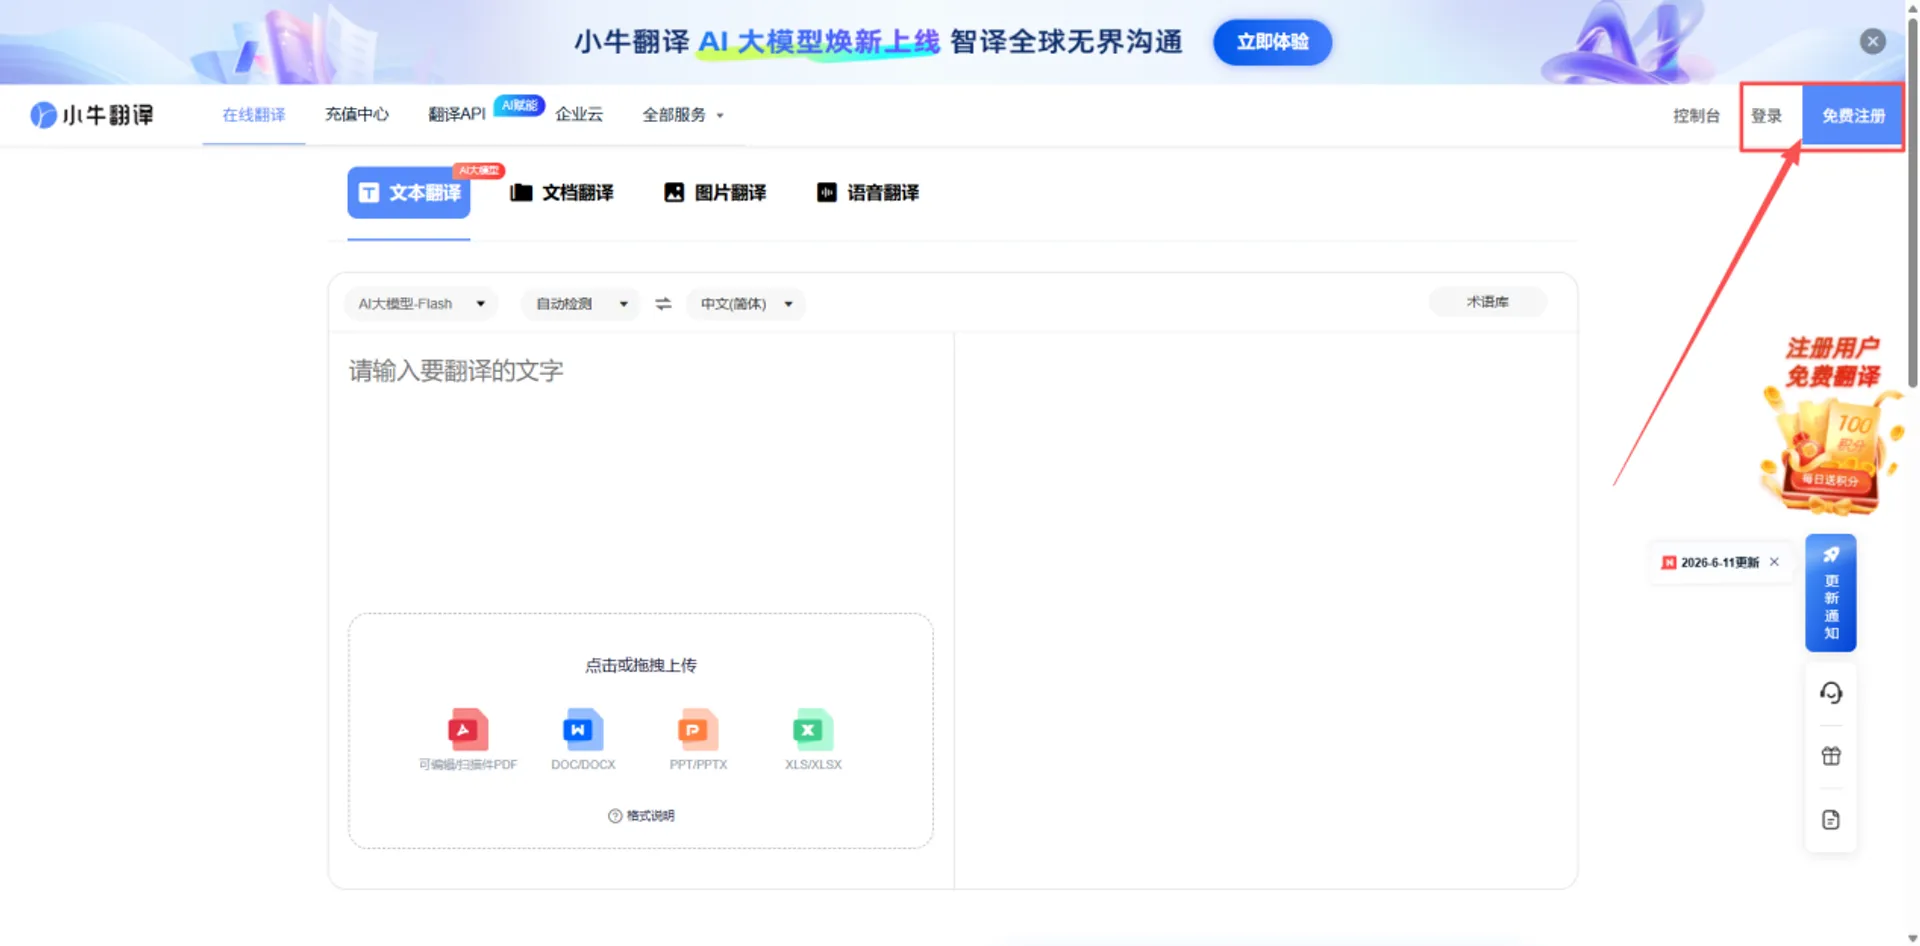
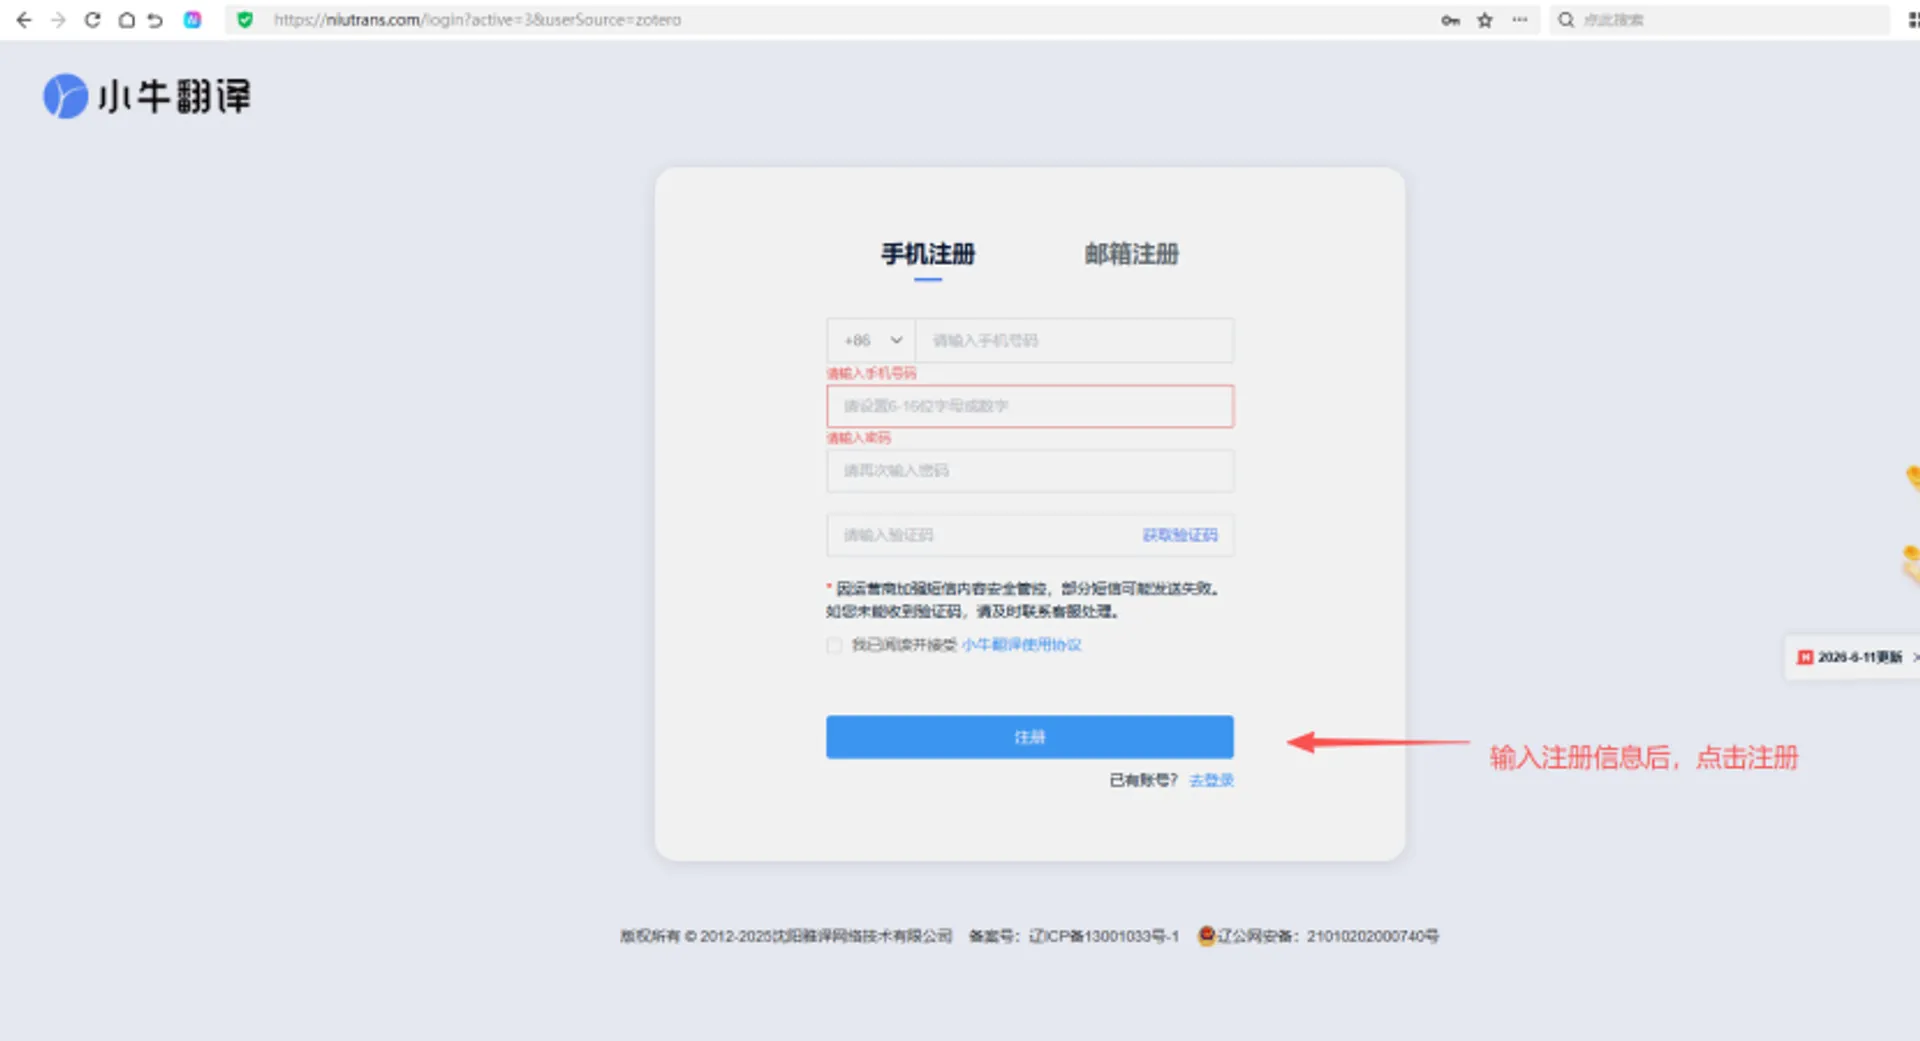
docs: 补充小牛翻译社区专属福利

diff --git a/user-guide/plugins/translate/niutrans.md b/user-guide/plugins/translate/niutrans.md
@@ -6,6 +6,10 @@
 
 新用户注册即可领取 500 积分（100 万字符）；平台每日额外发放 100 积分（20 万字符）免费额度。
 
+小牛翻译专为 Zotero 中文社区用户提供专属福利：通过社区专属链接注册，可额外再领取 500 积分。
+
+社区用户注册总计可获得 1000 积分（等价 200 万字符），具体注册操作详见下文账号注册说明。
+
 ## 计费规则
 
 免费额度使用完毕后，可选购通用积分包或字符流量包来调用翻译 API：
@@ -19,7 +23,7 @@
 
 ## 1. 账号注册
 
-访问[小牛翻译开放平台](https://niutrans.com/)，点击页面右上角的「登录/注册」。
+访问[小牛翻译开放平台专属注册链接](https://niutrans.com/login?active=3&userSource=zotero)，输入相应注册信息，点击「注册」。
 
 ![小牛翻译开放平台注册入口](../../../assets/images/zotero-plugin-translate/niutrans-register.png)
 
